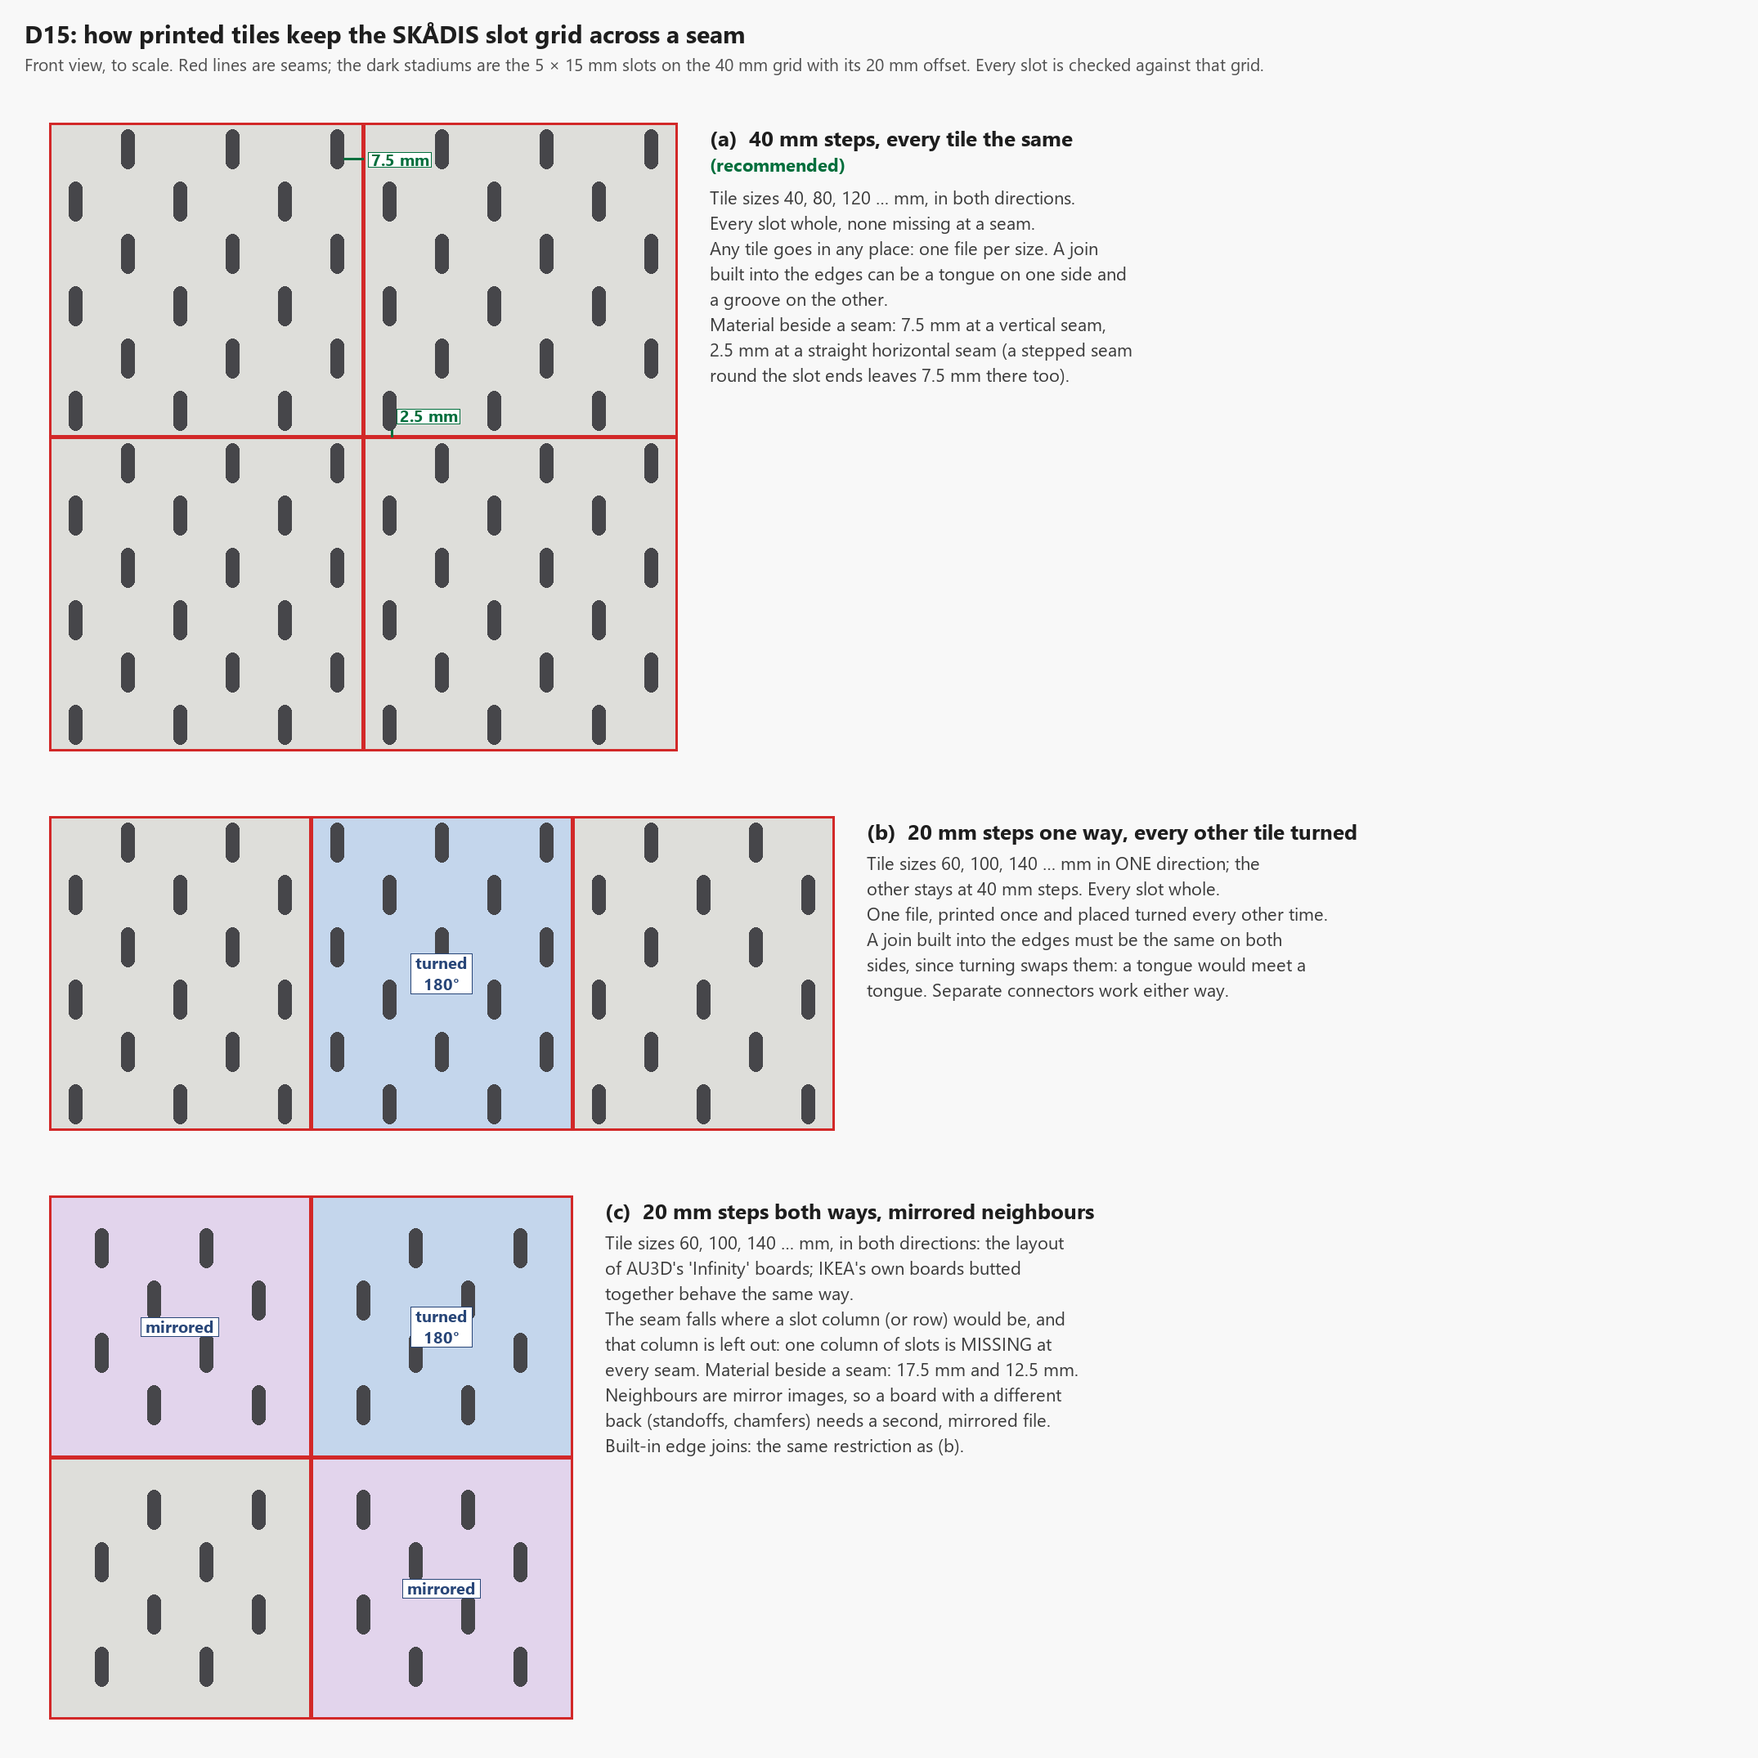
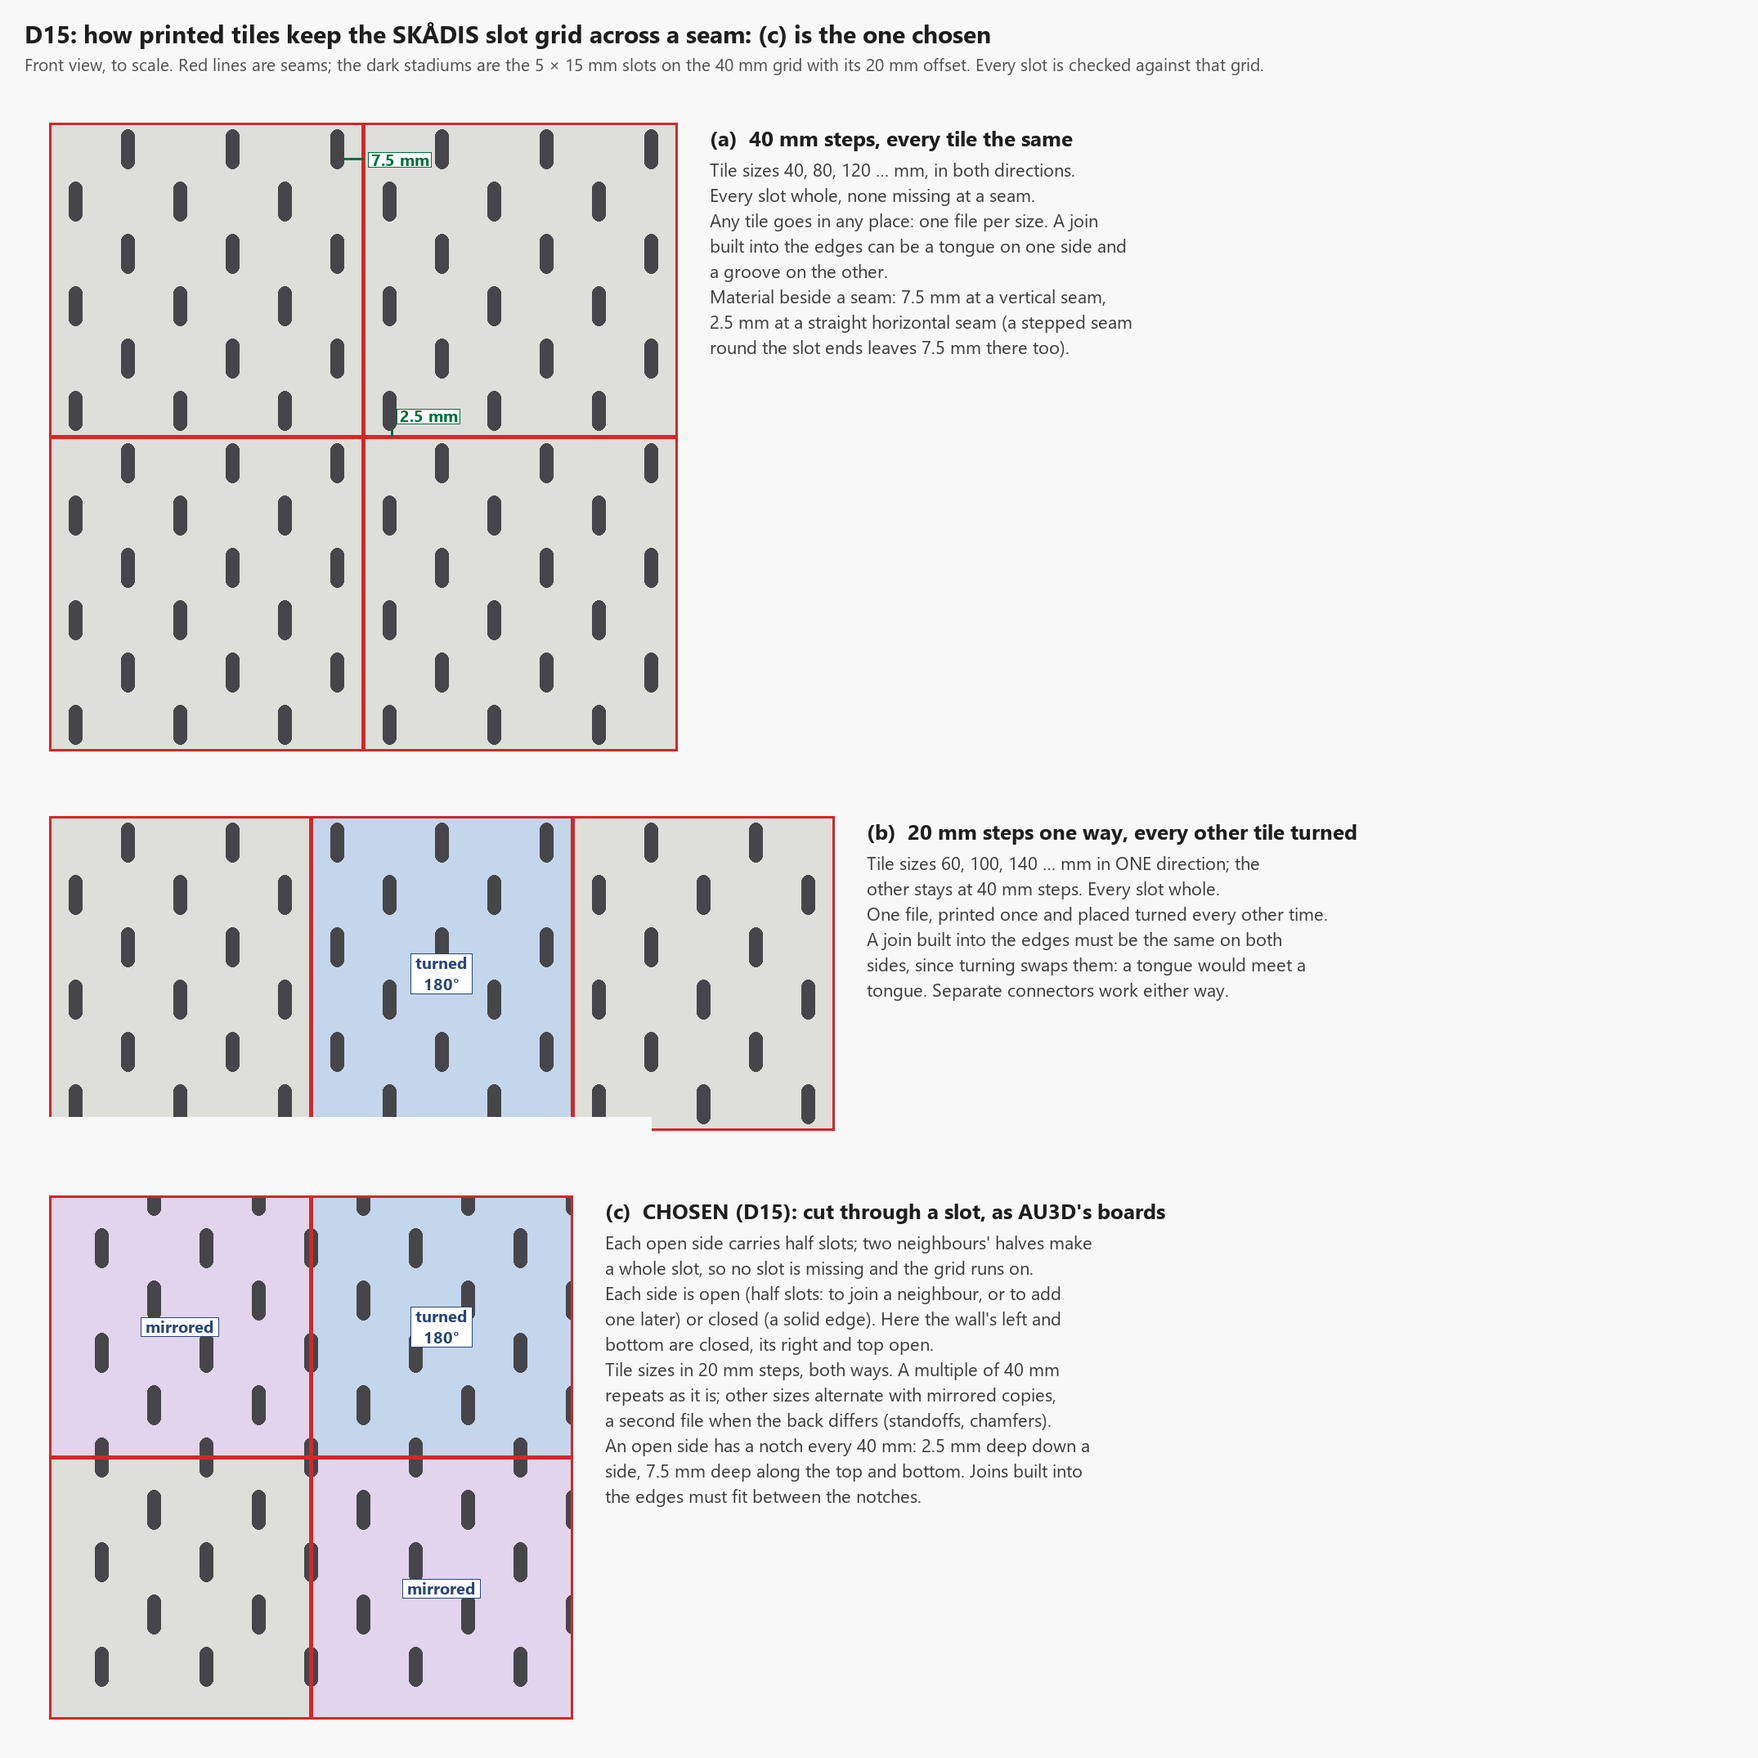
docs(d15): tiles cut through a slot, each side open or closed
The owner's decision (D15, 12 Oct 2026): tiles are cut through a slot
column or row, as AU3D's boards are, half a slot on each open side, and
each side is open or closed. The figure's panel (c) now shows that, and
its script refuses a seam that cuts a slot anywhere but its centre.
The earlier text of panel (c), a column left out at each seam, was wrong.

Also ignores Python bytecode from now on: its header records the
source's absolute path.

diff --git a/scripts/figures/tile-seams.py b/scripts/figures/tile-seams.py
@@ -10,10 +10,12 @@
 
 Every slot drawn is checked against the panel's slot grid first, so the figure cannot show an arrangement
 that does not work: tiles turned 180 degrees keep the grid when the seams fall between slot columns, and
-mirrored tiles keep it only when the seams fall where a slot column would be (that column left out).
+mirrored tiles keep it when the seams run through slot centres, half a slot on each side (the design the
+owner chose, D15, 12 Oct 2026). A slot cut anywhere but through its centre stops the script.
 Uses the Segoe UI fonts that come with Windows.
 """
 
+import math
 from pathlib import Path
 
 from PIL import Image, ImageDraw, ImageFont
@@ -24,6 +26,7 @@ OUT = ROOT / "docs" / "figures" / "tile-seams.png"
 K = 3.2  # pixels per mm
 TILE, TURNED, MIRRORED = (222, 222, 218), (196, 214, 236), (226, 212, 236)
 SEAM, SLOT, TXT, NOTE, DIM = (210, 40, 40), (70, 70, 74), (30, 30, 30), (60, 60, 60), (0, 110, 60)
+BACKGROUND = (248, 248, 248)
 
 
 def font(size, bold=False):
@@ -71,6 +74,63 @@ def draw_wall(d, ox, oy, wall_h, tiles, phase, margin):
             d.multiline_text(c, label, font=font(20, True), fill=(40, 70, 120), anchor="mm", align="center")
 
 
+def grid_range(a, b):
+    """Every 20 mm grid line from a to b, in wall millimetres: the steps must sit on the grid, not on a tile edge."""
+    return range(math.floor(a / 20) * 20, math.ceil(b / 20) * 20 + 1, 20)
+
+
+def draw_cut_wall(d, ox, oy, wall_w, wall_h, tiles, outer_open, background):
+    """The chosen design (D15): tiles cut through slot columns and rows. A slot whose centre lies on an open
+    edge is cut in half; on a closed edge it is left out. tiles: (x0, y0, w, h, how, label); outer_open: the
+    wall's open sides among {"left", "right", "bottom", "top"}. Raises on a slot cut anywhere but its centre."""
+    for x0, y0, w, h, how, _ in tiles:
+        X0, Y0 = ox + x0 * K, oy + (wall_h - y0 - h) * K
+        fill = TILE if how == "same" else TURNED if how == "turned" else MIRRORED
+        d.rectangle([X0, Y0, X0 + w * K, Y0 + h * K], fill=fill)
+    edges = {"left": 0, "right": wall_w, "bottom": 0, "top": wall_h}
+    for x in grid_range(-20, wall_w + 20):
+        for y in grid_range(-20, wall_h + 20):
+            if not on_grid(x, y, 0):
+                continue
+            touches = -2.5 < x < wall_w + 2.5 and -7.5 < y < wall_h + 7.5
+            if not touches:
+                continue
+            for side, at in edges.items():
+                on_this = (x == at) if side in ("left", "right") else (y == at)
+                if on_this and side not in outer_open:
+                    break                                  # a closed side: the slot is left out
+            else:
+                crossing = [s for s, at in edges.items()
+                            if (s in ("left", "right") and abs(x - at) < 2.5 and x != at)
+                            or (s in ("bottom", "top") and abs(y - at) < 7.5 and y != at)]
+                for x0, y0, w, h, _, _ in tiles:           # inner seams must run through slot centres too
+                    for at in (x0, x0 + w):
+                        if 0 < at < wall_w and abs(x - at) < 2.5 and x != at and y0 - 7.5 < y < y0 + h + 7.5:
+                            crossing.append(f"seam x={at}")
+                    for at in (y0, y0 + h):
+                        if 0 < at < wall_h and abs(y - at) < 7.5 and y != at and x0 - 2.5 < x < x0 + w + 2.5:
+                            crossing.append(f"seam y={at}")
+                if crossing:
+                    raise SystemExit(f"slot at ({x}, {y}) cut off its centre by {crossing}")
+                cx, cy = ox + x * K, oy + (wall_h - y) * K
+                d.rounded_rectangle([cx - 2.5 * K, cy - 7.5 * K, cx + 2.5 * K, cy + 7.5 * K], radius=2.5 * K, fill=SLOT)
+    # trim the half slots on the wall's open outer sides back to the wall
+    X0, Y0, X1, Y1 = ox, oy, ox + wall_w * K, oy + wall_h * K
+    m = 30 * K
+    for box in ([X0 - m, Y0 - m, X0, Y1 + m], [X1, Y0 - m, X1 + m, Y1 + m],
+                [X0, Y0 - m, X1, Y0], [X0, Y1, X1, Y1 + m]):
+        d.rectangle([box[0] + (1 if box[0] == X1 else 0), box[1], box[2] - (1 if box[2] == X0 else 0), box[3]],
+                    fill=background)
+    for x0, y0, w, h, how, text in tiles:
+        X0, Y0 = ox + x0 * K, oy + (wall_h - y0 - h) * K
+        d.rectangle([X0, Y0, X0 + w * K, Y0 + h * K], outline=SEAM, width=3)
+        if text:
+            c = (X0 + w * K / 2, Y0 + h * K / 2)
+            b = d.multiline_textbbox(c, text, font=font(20, True), anchor="mm", align="center")
+            d.rectangle([b[0] - 6, b[1] - 4, b[2] + 6, b[3] + 4], fill=(255, 255, 255), outline=(40, 70, 120))
+            d.multiline_text(c, text, font=font(20, True), fill=(40, 70, 120), anchor="mm", align="center")
+
+
 def label(d, ox, oy, wall_h, x_mm, y_mm, text):
     X, Y = ox + x_mm * K, oy + (wall_h - y_mm) * K
     b = d.textbbox((X, Y), text, font=font(20, True), anchor="lm")
@@ -89,9 +149,9 @@ def text_block(d, x, y, title, lines, recommended=False):
 
 
 def main():
-    img = Image.new("RGB", (2150, 2150), (248, 248, 248))
+    img = Image.new("RGB", (2150, 2150), BACKGROUND)
     d = ImageDraw.Draw(img)
-    d.text((30, 20), "D15: how printed tiles keep the SKÅDIS slot grid across a seam", font=font(30, True), fill=TXT)
+    d.text((30, 20), "D15: how printed tiles keep the SKÅDIS slot grid across a seam: (c) is the one chosen", font=font(30, True), fill=TXT)
     subtitle = ("Front view, to scale. Red lines are seams; the dark stadiums are the 5 × 15 mm slots on the 40 mm grid "
                 "with its 20 mm offset. Every slot is checked against that grid.")
     d.text((30, 64), subtitle, font=font(21), fill=(80, 80, 80))
@@ -118,7 +178,7 @@ def main():
         "Material beside a seam: 7.5 mm at a vertical seam,",
         "2.5 mm at a straight horizontal seam (a stepped seam",
         "round the slot ends leaves 7.5 mm there too).",
-    ], recommended=True)
+    ])
 
     # (b) seams between slot columns; every other tile turned 180 degrees; 20 mm steps one way
     oy = 150 + 240 * K + 80
@@ -137,24 +197,26 @@ def main():
         "tongue. Separate connectors work either way.",
     ])
 
-    # (c) seams where a slot column (or row) would be, that column left out; mirrored neighbours; 20 mm steps
+    # (c) the chosen design (D15): seams cut through slot columns and rows, half a slot on each open side
     oy = oy + 120 * K + 80
     wh = 200
     tiles = [
         (0, 0, 100, 100, "same", ""), (100, 0, 100, 100, "mirror-x", "mirrored"),
         (0, 100, 100, 100, "mirror-y", "mirrored"), (100, 100, 100, 100, "turned", "turned\n180°"),
     ]
-    draw_wall(d, ox, oy, wh, tiles, 0, (20, 20))
-    text_block(d, ox + 200 * K + 40, oy, "(c)  20 mm steps both ways, mirrored neighbours", [
-        "Tile sizes 60, 100, 140 … mm, in both directions: the layout",
-        "of AU3D's 'Infinity' boards; IKEA's own boards butted",
-        "together behave the same way.",
-        "The seam falls where a slot column (or row) would be, and",
-        "that column is left out: one column of slots is MISSING at",
-        "every seam. Material beside a seam: 17.5 mm and 12.5 mm.",
-        "Neighbours are mirror images, so a board with a different",
-        "back (standoffs, chamfers) needs a second, mirrored file.",
-        "Built-in edge joins: the same restriction as (b).",
+    draw_cut_wall(d, ox, oy, 200, wh, tiles, {"right", "top"}, BACKGROUND)
+    text_block(d, ox + 200 * K + 40, oy, "(c)  CHOSEN (D15): cut through a slot, as AU3D's boards", [
+        "Each open side carries half slots; two neighbours' halves make",
+        "a whole slot, so no slot is missing and the grid runs on.",
+        "Each side is open (half slots: to join a neighbour, or to add",
+        "one later) or closed (a solid edge). Here the wall's left and",
+        "bottom are closed, its right and top open.",
+        "Tile sizes in 20 mm steps, both ways. A multiple of 40 mm",
+        "repeats as it is; other sizes alternate with mirrored copies,",
+        "a second file when the back differs (standoffs, chamfers).",
+        "An open side has a notch every 40 mm: 2.5 mm deep down a",
+        "side, 7.5 mm deep along the top and bottom. Joins built into",
+        "the edges must fit between the notches.",
     ])
 
     img.save(OUT)

diff --git a/docs/backlog.md b/docs/backlog.md
@@ -33,7 +33,7 @@ that path. None needs the path rebuilt.
 | `repo-bootstrap` | **Done 12 Oct 2026.** Git, identity, the hooks from the convention kit, licences and REUSE, `README.md`, `CLAUDE.md`, `PROJECT.yml`, `.repo-status`, scad-tools as a submodule for its STL checks (C31), pushed to Gitea | P0 | S | | D2, D7, D8 | | | None |
 | `skadis-standard` | [`skadis-standard.md`](skadis-standard.md) reviewed; the survey read in full for anything that must not be published | P0 | S | `repo-bootstrap` | Q3 | | yes | None |
 | `page-skeleton` | The page and the geometry library as one npm workspace: Vite, TypeScript, Vitest, Playwright, oxlint, Prettier, Manifold loaded; a browser test that the built page builds a part | P0 | S | `repo-bootstrap` | D2 | | | None: the reference has it (C32) |
-| `board-solid` | The solid board: the slot grid, margins, outline and corner radius, thickness. Geometry tests (slot count, pitch, volume), each with a control that must fail; the exported STL is one closed body by scad-tools' `stl-mesh.py` and slices in PrusaSlicer | P0 | M | `page-skeleton` | D2, D11 | slot fit | yes | None significant |
+| `board-solid` | The solid board: the slot grid, its edges on slot columns and rows with each side open (half slots) or closed (D15), outline and corner radius, thickness. Geometry tests (slot count, pitch, volume), each with a control that must fail; the exported STL is one closed body by scad-tools' `stl-mesh.py` and slices in PrusaSlicer | P0 | M | `page-skeleton` | D2, D11 | slot fit | yes | None significant |
 | `registry` | Board types, options and connectors as one list; the page's controls and the file names derived from it; a contract test over every entry, with a test-only entry | P0 | M | `board-solid` | D6, D11 | | | None: the reference has the pattern |
 | `preview-3d` | 3D preview, updating as the settings change | P0 | S | `page-skeleton` | D2 | | | Triangle count of a large board (C32) |
 | `download-stl` | Download the board as STL, named by type and size | P0 | S | `preview-3d` | D2 | | | None (C32) |
@@ -44,8 +44,8 @@ that path. None needs the path rebuilt.
 | `board-lightened` | Lightened board: pockets between the slots, a rim kept round each slot; a first pattern, then more; a minimum web check | P1 | M | `board-solid` | D11 | yes | | Strength and hook fit of thin webs: test prints |
 | `board-skeleton` | Skeleton (ultralight) board: rims round the slots tied by I-section beams, mostly open, as the owner's pick (Q12) does; beam size, wall count and standoff height as settings | P1 | L | `board-solid` | D11, Q12 | yes | | Stiffness under load and hook fit: users of the original report sagging and hooks that jam; its slots measure exactly 5 × 15 mm with no clearance ([measured](research/2026-10-12-ultralight-measured.md)) |
 | `conn-seam-plate` | Connector 2: a plate behind the seam, fixed through the boards' corner holes, for 2 boards or for 4 where their corners meet; solid, lightened or skeleton; designed afresh (Q18, D13) | P1 | M | `mounting` | D13, Q18 | yes | yes | Matching IKEA's 404.776.46 needs T17 |
-| `tiling` | A board larger than the bed split into tiles whose slot grid continues across the seams (D15); edge, corner and centre tiles | P1 | L | `printer-default` | D4, D15 | yes | | A straight horizontal seam leaves only 2.5 mm beside the slot ends |
-| `edge-joins` | Joins built into the tile edges (tongue and groove, dovetail, a stepped seam) | P1 | L | `tiling` | D11 | yes | | Several rounds of test prints for the fit |
+| `tiling` | A board larger than the bed split into tiles cut through slot columns and rows, half a slot on each side of a seam (D15); a print list that groups identical, mirrored and turned tiles | P1 | L | `printer-default` | D4, D15 | yes | | Mirrored copies need a second file when the back differs |
+| `edge-joins` | Joins built into the tile edges, between the notches the half slots leave (every 40 mm) | P1 | L | `tiling` | D11 | yes | | Several rounds of test prints for the fit |
 | `conn-slot-clip` | Connector 3: a bar behind the seam with a peg in a slot of each board, for 2 boards, or a cross for 4 (D13) | P1 | M | `tiling` | D13 | yes | yes | Peg fit in a 5 mm slot |
 | `conn-angle` | Connector 4: boards at an angle (90°, 135°), inside or outside, joining 2 boards, or 4 where two meet on each side (D13) | P1 | M | `mounting` | D13 | yes | | None significant |
 | `conn-desk-clamp` | Connector 5: holds 1 board, or the seam of 2, upright on a desk edge of a given thickness (D13) | P1 | M | `mounting` | D13 | yes | | Clamp force in printed plastic |

diff --git a/docs/status.md b/docs/status.md
@@ -40,15 +40,13 @@ connector types drawn in [`figures/connector-types.png`](figures/connector-types
 | D13 | **Connectors in this order: standoff, seam plate, slot clip, angle joiner, desk clamp** ([figure](figures/connector-types.png)). **Each joiner (seam plate, slot clip, angle joiner) comes for 2 boards and for 4 boards**, where four corners meet; **each mount (standoff, desk clamp) for 1, 2 or 4 boards**, where that applies (a desk clamp reaches only the bottom row, so 1 or 2). **Connectors and mounts take D11's strength options (solid, lightened, skeleton) where they apply** | 12 Oct 2026 |
 | A19 | **The plan is approved; build starts with `repo-bootstrap`** | 12 Oct 2026 |
 | A30 | **One of Azat's STLs may be downloaded to measure** its beams and weight; measuring only, nothing copied. Done the same day: [`research/2026-10-12-ultralight-measured.md`](research/2026-10-12-ultralight-measured.md) (an I-section, a quarter of a solid board's plastic, slots at exactly 5 × 15 mm with no clearance, 5 mm standoffs) | 12 Oct 2026 |
+| D15 | **Tiles are cut through a slot column or row, as AU3D's boards are**: each open side carries half slots, and two neighbours' halves make a whole slot, so the grid runs on with no slot missing. **Each side is open or closed, the user's choice**: open (half slots, to join a neighbour or add one later) or closed (a solid edge, the half slots left out). Sizes go in 20 mm steps both ways; a multiple of 40 mm repeats as it is, other sizes alternate with mirrored copies (checked numerically, and in the [figure](figures/tile-seams.png)'s script). A board with every side closed has IKEA's 20 mm from edge to first slot | 12 Oct 2026 |
 | Q18 | The owner's own plate-connector attempt is **not used**; the seam plate is designed afresh | 12 Oct 2026 |
 
 ## Open questions
 
-- **D15** How tiles line up at a seam, three options in
-  [`figures/tile-seams.png`](figures/tile-seams.png) (drawn by `scripts/figures/tile-seams.py`, which
-  checks every slot against the grid): (a) 40 mm steps, every tile the same, every slot whole;
-  (b) 20 mm steps one way, every other tile turned 180°; (c) 20 mm steps both ways with mirrored
-  neighbours and one slot column left out at every seam, as AU3D's boards and IKEA's own do.
+- **D34** The default for each side of a single board: closed (an IKEA-like edge) or open (half slots,
+  ready for a neighbour).
 - **T17** The owner's caliper measurements of his board (not blocking: sources first, Q3).
 
 ## Inputs from outside this repository
